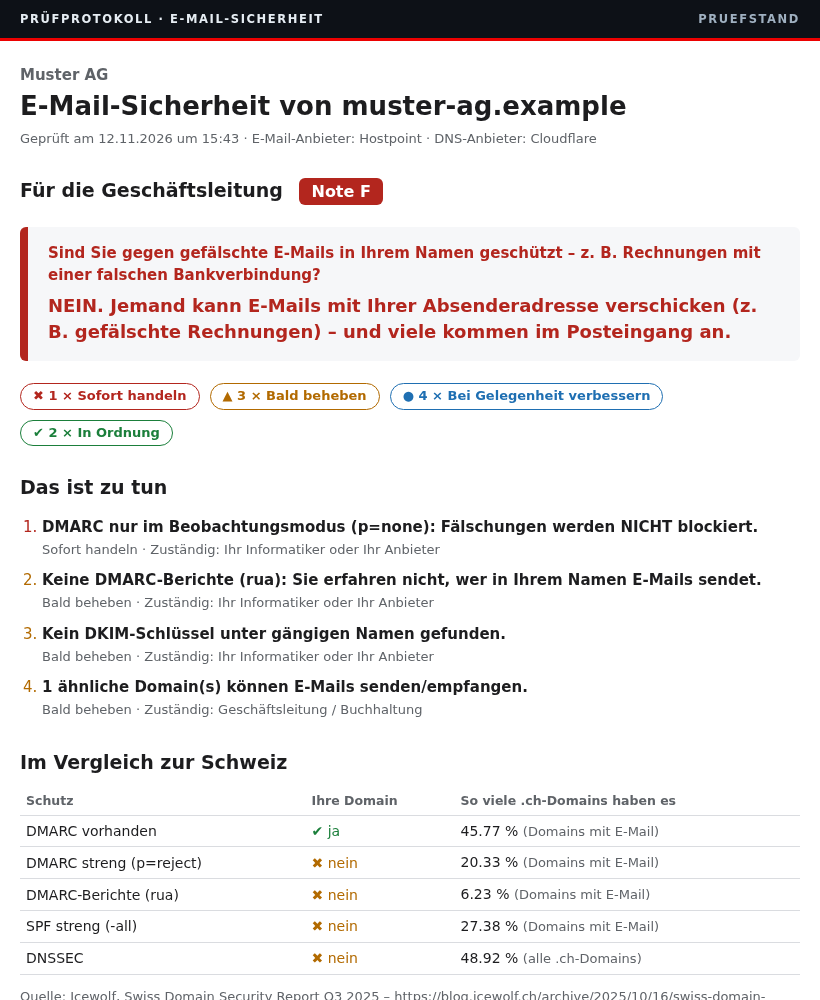
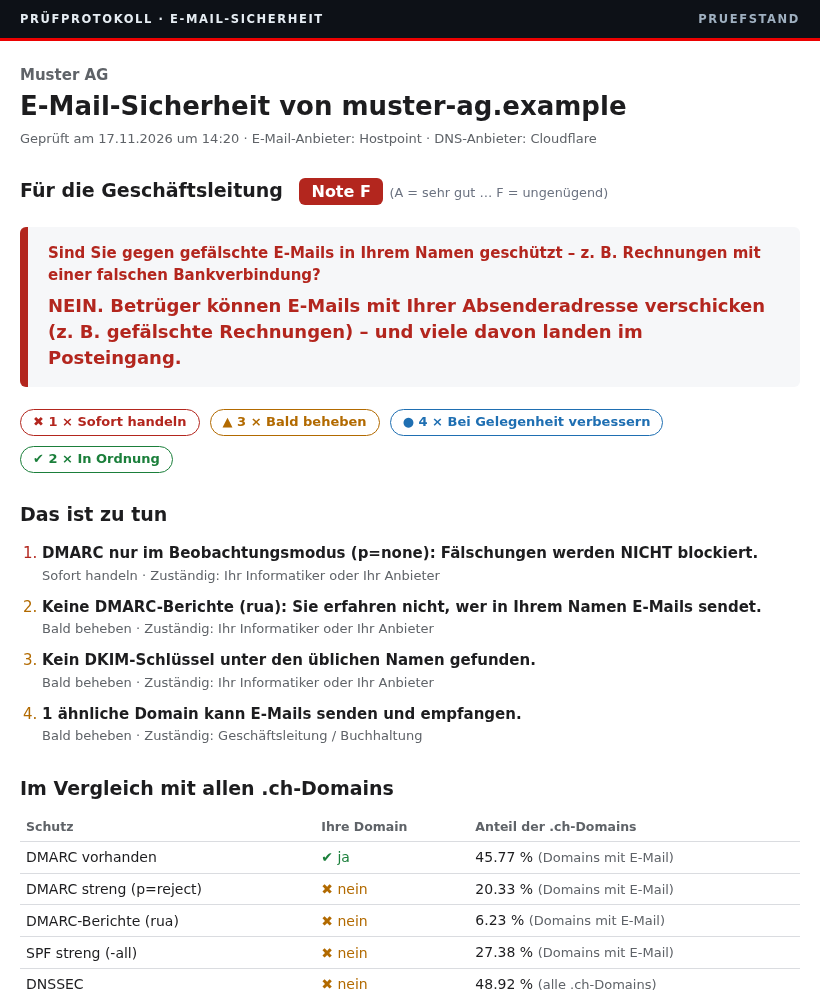
pruefstand 1.6.1: Sprache überarbeitet
- Einzahl/Mehrzahl statt «Domain(s)»: neue Hilfsfunktion sprache.zahl();
  korrigiert u. a. «1 ähnliche Domain(s) können» (Seite 1 des Berichts),
  Subdomains, Sicherheitslücken (KEV/CVE), Cookies, DNSBL, DMARC-Berichte
- Seite 1: «Betrüger können … – und viele davon landen im Posteingang»,
  Legende zur Note (A = sehr gut … F = ungenügend), «Im Vergleich mit
  allen .ch-Domains», Spalte «Anteil der .ch-Domains»
- E-Mail-Prüfung, README, SECURITY, CONTRIBUTING: klarere Formulierungen
- Beispielbericht und Bild von Seite 1 neu erzeugt

diff --git a/beispiel/muster-ag.html b/beispiel/muster-ag.html
@@ -65,15 +65,15 @@ footer { margin-top: 36px; border-top:1px solid var(--linie); padding-top: 10px;
 <div class="band"><span>Prüfprotokoll · E-Mail-Sicherheit</span><span>pruefstand</span></div>
 <div class="kopfzeile"><div><div class="firma">Muster AG</div><h1><span class="domain">E-Mail-Sicherheit</span> von <span class="domain">muster-ag.example</span></h1></div>
 </div>
-<div class="meta">Geprüft am 12.11.2026 um 15:43 · E-Mail-Anbieter:
+<div class="meta">Geprüft am 17.11.2026 um 14:20 · E-Mail-Anbieter:
 Hostpoint · DNS-Anbieter:
 Cloudflare</div>
 
-<h2>Für die Geschäftsleitung <span class="note note-F" title="33/100 Punkte">Note F</span></h2>
+<h2>Für die Geschäftsleitung <span class="note note-F" title="33/100 Punkte">Note F</span> <span style="font-size:.8rem;font-weight:normal;color:#6b7280">(A = sehr gut … F = ungenügend)</span></h2>
 <div class="urteil kritisch">
   <div class="frage">Sind Sie gegen gefälschte E-Mails in Ihrem Namen geschützt – z. B. Rechnungen
   mit einer falschen Bankverbindung?</div>
-  <div class="antwort">NEIN. Jemand kann E-Mails mit Ihrer Absenderadresse verschicken (z. B. gefälschte Rechnungen) – und viele kommen im Posteingang an.</div>
+  <div class="antwort">NEIN. Betrüger können E-Mails mit Ihrer Absenderadresse verschicken (z. B. gefälschte Rechnungen) – und viele davon landen im Posteingang.</div>
 </div>
 <div class="zaehler">
 <span class="kritisch">✖ 1 × Sofort handeln</span>
@@ -84,10 +84,10 @@ Cloudflare</div>
 <h2>Das ist zu tun</h2><ol class='todo'>
 <li class="kritisch"><span class="was">DMARC nur im Beobachtungsmodus (p=none): Fälschungen werden NICHT blockiert.</span><br><span class="meta">Sofort handeln · Zuständig: Ihr Informatiker oder Ihr Anbieter</span></li>
 <li class="warnung"><span class="was">Keine DMARC-Berichte (rua): Sie erfahren nicht, wer in Ihrem Namen E-Mails sendet.</span><br><span class="meta">Bald beheben · Zuständig: Ihr Informatiker oder Ihr Anbieter</span></li>
-<li class="warnung"><span class="was">Kein DKIM-Schlüssel unter gängigen Namen gefunden.</span><br><span class="meta">Bald beheben · Zuständig: Ihr Informatiker oder Ihr Anbieter</span></li>
-<li class="warnung"><span class="was">1 ähnliche Domain(s) können E-Mails senden/empfangen.</span><br><span class="meta">Bald beheben · Zuständig: Geschäftsleitung / Buchhaltung</span></li>
+<li class="warnung"><span class="was">Kein DKIM-Schlüssel unter den üblichen Namen gefunden.</span><br><span class="meta">Bald beheben · Zuständig: Ihr Informatiker oder Ihr Anbieter</span></li>
+<li class="warnung"><span class="was">1 ähnliche Domain kann E-Mails senden und empfangen.</span><br><span class="meta">Bald beheben · Zuständig: Geschäftsleitung / Buchhaltung</span></li>
 </ol>
-<h2>Im Vergleich zur Schweiz</h2><table class='vergleich'><thead><tr><th>Schutz</th><th>Ihre Domain</th><th>So viele .ch-Domains haben es</th></tr></thead><tbody>
+<h2>Im Vergleich mit allen .ch-Domains</h2><table class='vergleich'><thead><tr><th>Schutz</th><th>Ihre Domain</th><th>Anteil der .ch-Domains</th></tr></thead><tbody>
 <tr><td>DMARC vorhanden</td><td><span class="ok">✔ ja</span></td><td>45.77 % <span class='meta'>(Domains mit E-Mail)</span></td></tr>
 <tr><td>DMARC streng (p=reject)</td><td><span class="warnung">✖ nein</span></td><td>20.33 % <span class='meta'>(Domains mit E-Mail)</span></td></tr>
 <tr><td>DMARC-Berichte (rua)</td><td><span class="warnung">✖ nein</span></td><td>6.23 % <span class='meta'>(Domains mit E-Mail)</span></td></tr>
@@ -104,13 +104,13 @@ Betrugsfälle können Sie dem Bundesamt für Cybersicherheit (BACS) melden.</p><
 <div class="seitenumbruch"></div><h2>Technische Details</h2><p class="meta">Für Ihren Informatiker. Jeder Befund hat eine feste ID.</p>
 <div class="befund" style="--farbe:var(--kritisch)"><div class="kopf"><span>DMARC: DMARC nur im Beobachtungsmodus (p=none): Fälschungen werden NICHT blockiert.</span><span class="id">DMARC-P-NONE</span></div><div class="status">✖ Sofort handeln</div><pre>v=DMARC1; p=none</pre><div><strong>Empfehlung:</strong> Berichte (rua) auswerten, prüfen ob alle echten Versanddienste SPF/DKIM bestehen, dann p=quarantine und später p=reject setzen.</div></div>
 <div class="befund" style="--farbe:var(--warnung)"><div class="kopf"><span>DMARC: Keine DMARC-Berichte (rua): Sie erfahren nicht, wer in Ihrem Namen E-Mails sendet.</span><span class="id">DMARC-KEIN-RUA</span></div><div class="status">▲ Bald beheben</div><pre>v=DMARC1; p=none</pre><div><strong>Empfehlung:</strong> rua=mailto:dmarc@muster-ag.example ergänzen (eigene Adresse oder kostenloser DMARC-Auswertungsdienst). So sehen Sie Fälschungsversuche und Fehler.</div><div class="anleitung"><strong>So geht's bei Ihrem Anbieter:</strong> Über Cloudflare: Dashboard → Domain → «Email» &gt; «DMARC Management» → «Enable DMARC Management». Cloudflare ergänzt Ihren DMARC-Eintrag um eine eigene rua-Adresse und wertet die Berichte für Sie aus. Funktioniert nur für die Hauptdomain.<div class="quelle">Quelle: https://developers.cloudflare.com/dmarc-management/enable (geprüft 12.11.2026)</div></div></div>
-<div class="befund" style="--farbe:var(--warnung)"><div class="kopf"><span>DKIM: Kein DKIM-Schlüssel unter gängigen Namen gefunden.</span><span class="id">DKIM-NICHT-GEFUNDEN</span></div><div class="status">▲ Bald beheben</div><pre>Geprüft: 26 Selektoren. DKIM kann trotzdem eingerichtet sein (unbekannter Selektor).</pre><div><strong>Empfehlung:</strong> Eine E-Mail an sich selbst senden und im Header «DKIM-Signature: d=… s=…» nachsehen. Fehlt der Header: DKIM beim E-Mail-Anbieter aktivieren. Selektor bekannt? → pruefstand DOMAIN --dkim-selektor NAME</div><div class="anleitung"><strong>So geht's bei Ihrem Anbieter:</strong> Bei Hostpoint ist das zu erwarten: Der Selektor besteht aus Datum, Schlüsseltyp und Zufallszeichen (z. B. 20240131-rsa1024-9160ac53) und lässt sich nicht erraten. Seit Mai 2024 ist DKIM für Domains in einer Webhosting- oder Cloud-Office-Gruppe automatisch aktiv (drei Schlüssel: rsa1024, rsa2048, ed25519). Sonst im Control Panel unter «Enhanced protection» die Domain wählen und DKIM aktivieren. Prüfen: Header einer gesendeten E-Mail ansehen (DKIM-Signature: s=…), dann pruefstand DOMAIN --dkim-selektor &lt;s-Wert&gt;.<div class="quelle">Quelle: https://support.hostpoint.ch/en/technical/e-mail/e-mail-security/dkim (geprüft 12.11.2026)</div></div></div>
-<div class="befund" style="--farbe:var(--warnung)"><div class="kopf"><span>Ähnliche Domains: 1 ähnliche Domain(s) können E-Mails senden/empfangen.</span><span class="id">AEHNLICH-MIT-MAIL</span></div><div class="status">▲ Bald beheben</div><pre>rnuster-ag.example  (verwechselbares Zeichen)</pre><div><strong>Empfehlung:</strong> Prüfen, ob diese Domains Ihnen oder einer bekannten Firma gehören. Wenn nicht: Buchhaltung warnen (Kontowechsel IMMER per Rückruf bestätigen) und ggf. dem BACS melden. Wichtige Varianten (.ch/.com) selbst registrieren.</div></div>
+<div class="befund" style="--farbe:var(--warnung)"><div class="kopf"><span>DKIM: Kein DKIM-Schlüssel unter den üblichen Namen gefunden.</span><span class="id">DKIM-NICHT-GEFUNDEN</span></div><div class="status">▲ Bald beheben</div><pre>Geprüft: 26 Selektoren. DKIM kann trotzdem eingerichtet sein (unbekannter Selektor).</pre><div><strong>Empfehlung:</strong> Eine E-Mail an sich selbst senden und im Header «DKIM-Signature: d=… s=…» nachsehen. Fehlt der Header: DKIM beim E-Mail-Anbieter aktivieren. Selektor bekannt? → pruefstand DOMAIN --dkim-selektor NAME</div><div class="anleitung"><strong>So geht's bei Ihrem Anbieter:</strong> Bei Hostpoint ist das zu erwarten: Der Selektor besteht aus Datum, Schlüsseltyp und Zufallszeichen (z. B. 20240131-rsa1024-9160ac53) und lässt sich nicht erraten. Seit Mai 2024 ist DKIM für Domains in einer Webhosting- oder Cloud-Office-Gruppe automatisch aktiv (drei Schlüssel: rsa1024, rsa2048, ed25519). Sonst im Control Panel unter «Enhanced protection» die Domain wählen und DKIM aktivieren. Prüfen: Header einer gesendeten E-Mail ansehen (DKIM-Signature: s=…), dann pruefstand DOMAIN --dkim-selektor &lt;s-Wert&gt;.<div class="quelle">Quelle: https://support.hostpoint.ch/en/technical/e-mail/e-mail-security/dkim (geprüft 12.11.2026)</div></div></div>
+<div class="befund" style="--farbe:var(--warnung)"><div class="kopf"><span>Ähnliche Domains: 1 ähnliche Domain kann E-Mails senden und empfangen.</span><span class="id">AEHNLICH-MIT-MAIL</span></div><div class="status">▲ Bald beheben</div><pre>rnuster-ag.example  (verwechselbares Zeichen)</pre><div><strong>Empfehlung:</strong> Prüfen, ob diese Domains Ihnen oder einer bekannten Firma gehören. Wenn ja: als eigene Domain markieren (pruefstand … --eigene-domain DOMAIN), dann wird sie künftig auf Schutz geprüft statt gemeldet. Wenn nicht: Buchhaltung warnen (Kontowechsel IMMER per Rückruf bestätigen) und ggf. dem BACS melden. Wichtige Varianten (.ch/.com) selbst registrieren.</div></div>
 <div class="befund" style="--farbe:var(--hinweis)"><div class="kopf"><span>SPF: SPF vorhanden, aber nur «weich» (~all).</span><span class="id">SPF-SOFTFAIL</span></div><div class="status">● Bei Gelegenheit verbessern</div><pre>v=spf1 include:spf.mail.hostpoint.ch include:_spf.buchhaltung.example ~all
 Fremde Server werden nur markiert, nicht abgelehnt. Mit einem strengen DMARC (quarantine/reject) ist das in Ordnung.</pre><div><strong>Empfehlung:</strong> Wenn alle Ihre Versanddienste im SPF stehen: ~all durch -all ersetzen.</div></div>
 <div class="befund" style="--farbe:var(--hinweis)"><div class="kopf"><span>DNSSEC: DNSSEC nicht aktiviert.</span><span class="id">DNSSEC-AUS</span></div><div class="status">● Bei Gelegenheit verbessern</div><pre>DNS-Antworten könnten unterwegs gefälscht werden (z. B. Umleitung auf falsche Server).</pre><div><strong>Empfehlung:</strong> Beim DNS-Anbieter DNSSEC einschalten (bei Hostpoint, Infomaniak, Cloudflare meist ein Klick).</div></div>
 <div class="befund" style="--farbe:var(--hinweis)"><div class="kopf"><span>CAA: Kein CAA-Eintrag: Jede Zertifizierungsstelle darf Zertifikate für Sie ausstellen.</span><span class="id">CAA-FEHLT</span></div><div class="status">● Bei Gelegenheit verbessern</div><pre>Geringes Risiko, aber einfach zu verbessern.</pre><div><strong>Empfehlung:</strong> CAA-Eintrag mit Ihrer Zertifizierungsstelle anlegen, z. B. «muster-ag.example. CAA 0 issue &quot;letsencrypt.org&quot;».</div></div>
-<div class="befund" style="--farbe:var(--hinweis)"><div class="kopf"><span>Ähnliche Domains: 1 ähnliche Domain(s) registriert, derzeit ohne E-Mail.</span><span class="id">AEHNLICH-OHNE-MAIL</span></div><div class="status">● Bei Gelegenheit verbessern</div><pre>muster-ag-rechnung.example  (Zusatz)</pre><div><strong>Empfehlung:</strong> Beobachten: E-Mail kann jederzeit eingerichtet werden. Bei erneuter Prüfung zeigt pruefstand, ob sich etwas geändert hat.</div></div>
+<div class="befund" style="--farbe:var(--hinweis)"><div class="kopf"><span>Ähnliche Domains: 1 ähnliche Domain ist registriert, derzeit ohne E-Mail.</span><span class="id">AEHNLICH-OHNE-MAIL</span></div><div class="status">● Bei Gelegenheit verbessern</div><pre>muster-ag-rechnung.example  (Zusatz)</pre><div><strong>Empfehlung:</strong> Beobachten: E-Mail kann jederzeit eingerichtet werden. Bei erneuter Prüfung zeigt pruefstand, ob sich etwas geändert hat.</div></div>
 <div class="befund" style="--farbe:var(--ok)"><div class="kopf"><span>MX: E-Mails werden angenommen von: Hostpoint</span><span class="id">MX-OK</span></div><div class="status">✔ In Ordnung</div><pre>Mailserver: mx1.mail.hostpoint.ch, mx2.mail.hostpoint.ch</pre></div>
 <div class="befund" style="--farbe:var(--ok)"><div class="kopf"><span>Subdomains: Keine verwaisten Subdomains gefunden (47 Namen geprüft).</span><span class="id">SUB-OK</span></div><div class="status">✔ In Ordnung</div></div>
 <div class="befund" style="--farbe:var(--info)"><div class="kopf"><span>NS: DNS wird verwaltet bei: Cloudflare – dort werden die Korrekturen gemacht.</span><span class="id">NS-ANBIETER</span></div><div class="status">ℹ Info</div><pre>Nameserver: anna.ns.cloudflare.com, bob.ns.cloudflare.com</pre></div>
@@ -141,7 +141,7 @@ Fremde Server werden nur markiert, nicht abgelehnt. Mit einem strengen DMARC (qu
 <div><strong>Wichtig</strong></div>
 <div class="meta">→ ALLE Zertifizierungsstellen aufnehmen, die Sie oder Ihr Hoster nutzen – sonst kann die automatische Zertifikatserneuerung scheitern. Cloudflare ergänzt bei Universal SSL seine eigenen CAA-Einträge automatisch (laut Cloudflare-Doku).</div>
 </div>
-<footer>Erstellt mit pruefstand 1.3.0 – passiver Check: Es wurden nur öffentliche
+<footer>Erstellt mit pruefstand 1.6.1 – passiver Check: Es wurden nur öffentliche
 DNS-Daten abgefragt und die Webseite normal aufgerufen – ohne Zugriff auf Ihre Systeme. Der Bericht zeigt den Stand vom
-12.11.2026 und ersetzt keine vollständige Sicherheitsprüfung.</footer>
+17.11.2026 und ersetzt keine vollständige Sicherheitsprüfung.</footer>
 </main></body></html>

diff --git a/src/pruefstand/pruefungen/aehnliche.py b/src/pruefstand/pruefungen/aehnliche.py
@@ -26,6 +26,7 @@ from dataclasses import dataclass
 import json
 from datetime import datetime, timedelta, timezone
 
+from pruefstand.sprache import zahl
 from pruefstand.dnsabfrage import Dns, DnsFehler
 from pruefstand.modell import Befund, Status
 from pruefstand.netz import Netz, NetzFehler
@@ -303,14 +304,15 @@ def _eigene_befunde(dns: Dns, eigene: dict[str, str]) -> tuple[list[Befund], lis
     if weg:
         befunde.append(Befund(
             "AEHNLICH-EIGENE-ABGELAUFEN", "Ähnliche Domains", Status.WARNUNG,
-            f"{len(weg)} Ihrer eigenen Domain(s) existiert/existieren nicht mehr – jemand anderes "
-            "könnte sie registrieren.", "\n".join(zeile(i) for i in weg),
+            (f"{len(weg)} Ihrer eigenen Domains gibt es nicht mehr" if len(weg) > 1 else
+             "Eine Ihrer eigenen Domains gibt es nicht mehr") + " – jemand anderes könnte sie registrieren.", "\n".join(zeile(i) for i in weg),
             "Beim Registrar prüfen, ob die Domain abgelaufen ist, und sie wieder registrieren. "
             "Sonst kann ein Betrüger genau diese Variante für gefälschte E-Mails nutzen.", daten))
     if offen:
         befunde.append(Befund(
             "AEHNLICH-EIGENE-UNGESCHUETZT", "Ähnliche Domains", Status.WARNUNG,
-            f"{len(offen)} Ihrer eigenen ähnlichen Domain(s) ist/sind nicht gegen Fälschung geschützt.",
+            (f"{len(offen)} Ihrer eigenen ähnlichen Domains sind" if len(offen) > 1 else
+             "Eine Ihrer eigenen ähnlichen Domains ist") + " nicht gegen Fälschung geschützt.",
             "\n".join(zeile(i) for i in offen),
             "Auch Domains, die Sie nur zum Schutz besitzen, absichern – sonst können Betrüger mit "
             "ihnen E-Mails in Ihrem Namen verschicken. Ohne E-Mail: SPF «v=spf1 -all», DMARC "
@@ -319,7 +321,8 @@ def _eigene_befunde(dns: Dns, eigene: dict[str, str]) -> tuple[list[Befund], lis
     if gut:
         befunde.append(Befund(
             "AEHNLICH-EIGENE", "Ähnliche Domains", Status.OK,
-            f"{len(gut)} eigene ähnliche Domain(s) bestätigt und gegen Fälschung geschützt.",
+            f"{zahl(len(gut), 'eigene ähnliche Domain', 'eigene ähnliche Domains')} bestätigt und gegen "
+            "Fälschung geschützt.",
             "\n".join(zeile(i) for i in gut), daten=daten))
     return befunde, infos
 
@@ -345,8 +348,8 @@ def pruefe(dns: Dns, domain: str, netz: Netz | None = None, jetzt: datetime | No
     if neu_mit_mail:
         befunde.append(Befund(
             "AEHNLICH-NEU-REGISTRIERT", "Ähnliche Domains", Status.KRITISCH,
-            f"{len(neu_mit_mail)} ähnliche Domain(s) mit E-Mail wurden in den letzten {NEU_TAGE} Tagen "
-            "registriert – typisches Zeichen für einen vorbereiteten Betrug.",
+            f"{zahl(len(neu_mit_mail), 'ähnliche Domain mit E-Mail wurde', 'ähnliche Domains mit E-Mail wurden')} "
+            f"in den letzten {NEU_TAGE} Tagen registriert – ein typisches Zeichen für einen vorbereiteten Betrug.",
             "\n".join(t.zeile() for t in neu_mit_mail),
             "Sofort: Buchhaltung und wichtige Kunden warnen (keine Kontowechsel per E-Mail), "
             "Fall dem BACS melden (www.ncsc.admin.ch). Prüfen, wem die Domain gehört.",
@@ -355,7 +358,7 @@ def pruefe(dns: Dns, domain: str, netz: Netz | None = None, jetzt: datetime | No
     if mit_mail:
         befunde.append(Befund(
             "AEHNLICH-MIT-MAIL", "Ähnliche Domains", Status.WARNUNG,
-            f"{len(mit_mail)} ähnliche Domain(s) können E-Mails senden/empfangen.",
+            f"{zahl(len(mit_mail), 'ähnliche Domain kann', 'ähnliche Domains können')} E-Mails senden und empfangen.",
             "\n".join(t.zeile() for t in mit_mail),
             "Prüfen, ob diese Domains Ihnen oder einer bekannten Firma gehören. Wenn ja: als eigene "
             "Domain markieren (pruefstand … --eigene-domain DOMAIN), dann wird sie künftig auf Schutz "
@@ -366,7 +369,7 @@ def pruefe(dns: Dns, domain: str, netz: Netz | None = None, jetzt: datetime | No
     if ohne_mail:
         befunde.append(Befund(
             "AEHNLICH-OHNE-MAIL", "Ähnliche Domains", Status.HINWEIS,
-            f"{len(ohne_mail)} ähnliche Domain(s) registriert, derzeit ohne E-Mail.",
+            f"{zahl(len(ohne_mail), 'ähnliche Domain ist', 'ähnliche Domains sind')} registriert, derzeit ohne E-Mail.",
             "\n".join(t.zeile() for t in ohne_mail),
             "Beobachten: E-Mail kann jederzeit eingerichtet werden. Bei erneuter Prüfung "
             "zeigt pruefstand, ob sich etwas geändert hat.", daten,

diff --git a/src/pruefstand/mailpruefung.py b/src/pruefstand/mailpruefung.py
@@ -315,7 +315,7 @@ def _phishing_signale(msg: EmailMessage, name: str, von: str, von_domain: str, a
         lokal = adr.split("@", 1)[0]
         if len(lokal) >= 3 and lokal not in ROLLEN and n in (lokal, adr) and von.lower() != adr:
             signale.append(("NAME-IST-EMPFAENGER", f"Als Absendername steht Ihr eigenes Postfach «{name}» – "
-                            f"die E-Mail kommt aber von {von}. Trick, damit sie vertraut aussieht."))
+                            f"die E-Mail kommt aber von {von}. Ein Trick, damit sie vertraut wirkt."))
             break
     # stark: Kopfzeilen, die nur Mailserver setzen, stehen UNTER dem From → vom Absender selbst erfunden
     namen = [k.lower() for k in msg.keys()]
@@ -326,7 +326,7 @@ def _phishing_signale(msg: EmailMessage, name: str, von: str, von_domain: str, a
             if any("trusted sender" in str(v).lower() for v in msg.get_all("X-Google-Sender-Delegation", []) or []):
                 detail.append("«Trusted Sender» (erfunden – Gmail kennt keine solche Bestätigung)")
             signale.append(("KOPF-UNTER-FROM", "Die E-Mail enthält gefälschte Server-Kopfzeilen "
-                            f"({', '.join(detail)}). Echte Server schreiben diese immer OBEN dazu."))
+                            f"({', '.join(detail)}). Echte Mailserver fügen diese immer OBEN ein."))
     # schwach: SPF/DKIM bestanden – aber nur für eine fremde Domain
     dom = _auth_domains(msg)
     if ar.get("dmarc") != "pass" and von_domain:
@@ -344,12 +344,12 @@ def _phishing_signale(msg: EmailMessage, name: str, von: str, von_domain: str, a
                     - GUELTIGE_KODIERUNG - {""})
     if falsch:
         signale.append(("KODIERUNG-UNGUELTIG", f"Die E-Mail ist absichtlich fehlerhaft aufgebaut "
-                        f"(Kodierung «{falsch[0][:20]}» gibt es nicht) – Trick gegen Spamfilter."))
+                        f"(Kodierung «{falsch[0][:20]}» gibt es nicht) – ein Trick gegen Spamfilter."))
     # schwach: Zahlungs-Phrasen («Zahlungsmethode abgelaufen» …)
     zahlung = [p for p in ZAHLUNG_PHRASEN if p in text]
     if zahlung:
         signale.append(("ZAHLUNG-AKTUALISIEREN", f"Sie sollen Ihre Zahlungsdaten aktualisieren "
-                        f"(«{zahlung[0]}») – klassischer Köder für Kreditkarten-Diebstahl."))
+                        f"(«{zahlung[0]}») – ein klassischer Köder für Kreditkartenbetrug."))
     return signale
 
 
@@ -578,8 +578,8 @@ def pruefe_mail(roh: bytes, datei: str = "", eigene_domains: list[str] | None = 
         b(Befund("MAIL-PHISHING-MUSTER", "Betrugsmuster", Status.WARNUNG,
                  f"Typisches Phishing-Muster: {len(p_signale)} Signale gleichzeitig.",
                  "\n".join(f"– {e}" for _, e in p_signale),
-                 "Nichts anklicken, keine Zahlungs- oder Anmeldedaten eingeben, auch nicht «Abmelden» "
-                 "klicken (bestätigt nur, dass Ihre Adresse aktiv ist). Als Phishing melden und löschen.",
+                 "Nichts anklicken, keine Zahlungs- oder Anmeldedaten eingeben, auch nicht auf «Abmelden» "
+                 "klicken (das bestätigt nur, dass Ihre Adresse aktiv ist). Als Phishing melden und löschen.",
                  daten={"signale": [k for k, _ in p_signale]}))
     else:                       # kein Gesamtmuster: starke Signale einzeln zeigen
         for kuerzel, erklaerung in p_signale:

diff --git a/src/pruefstand/dmarc_berichte.py b/src/pruefstand/dmarc_berichte.py
@@ -21,6 +21,7 @@ from pathlib import Path
 
 from defusedxml import ElementTree as ET
 
+from pruefstand.sprache import zahl
 from pruefstand.modell import Befund, Status
 
 MAX_ENTPACKT = 20 * 1024 * 1024
@@ -193,8 +194,9 @@ def bewerte(aus: Auswertung) -> list[Befund]:
     gesamt, ok = aus.gesamt, aus.bestanden
     befunde.append(Befund(
         "RUA-UEBERSICHT", "DMARC-Berichte", Status.INFO,
-        f"{gesamt} E-Mails von {len(aus.quellen)} Servern; {ok} ({ok / gesamt:.0%}) bestehen DMARC.",
-        f"Domain(s): {', '.join(sorted(aus.domains))} · Richtlinie: {', '.join(sorted(aus.policy))} · "
+        f"{zahl(gesamt, 'E-Mail', 'E-Mails')} von {zahl(len(aus.quellen), 'Server', 'Servern')}; "
+        f"{ok} ({ok / gesamt:.0%}) " + ("besteht" if ok == 1 else "bestehen") + " DMARC.",
+        f"{'Domain' if len(aus.domains) == 1 else 'Domains'}: {', '.join(sorted(aus.domains))} · Richtlinie: {', '.join(sorted(aus.policy))} · "
         f"Zeitraum: {aus.von:%d.%m.%Y} – {aus.bis:%d.%m.%Y}" if aus.von and aus.bis else "",
     ))
     bekannte_fehler = [q for q in aus.quellen.values() if q.bestanden < q.anzahl and q.name]
@@ -202,8 +204,8 @@ def bewerte(aus: Auswertung) -> list[Befund]:
     if bekannte_fehler:
         befunde.append(Befund(
             "RUA-ECHTE-DIENSTE-SCHEITERN", "DMARC-Berichte", Status.WARNUNG,
-            f"{len(bekannte_fehler)} bekannte(r) Versanddienst(e) bestehen DMARC nicht immer – "
-            "das sind wahrscheinlich IHRE eigenen E-Mails.",
+            f"{zahl(len(bekannte_fehler), 'bekannter Versanddienst besteht', 'bekannte Versanddienste bestehen')} "
+            "DMARC nicht immer – das sind wahrscheinlich IHRE eigenen E-Mails.",
             "\n".join(f"{q.name} ({q.ip}, {q.ptr}): {q.anzahl - q.bestanden} von {q.anzahl} gescheitert"
                       for q in sorted(bekannte_fehler, key=lambda x: -x.anzahl)),
             "Bei diesen Diensten DKIM mit Ihrer Domain einrichten (oder sie in den SPF aufnehmen). "
@@ -250,6 +252,6 @@ def bewerte(aus: Auswertung) -> list[Befund]:
         ))
     if aus.fehler:
         befunde.append(Befund("RUA-DATEIFEHLER", "DMARC-Berichte", Status.INFO,
-                              f"{len(aus.fehler)} Datei(en) konnten nicht gelesen werden.",
+                              f"{zahl(len(aus.fehler), 'Datei konnte', 'Dateien konnten')} nicht gelesen werden.",
                               "\n".join(aus.fehler[:10])))
     return befunde

diff --git a/src/pruefstand/pruefungen/subdomains.py b/src/pruefstand/pruefungen/subdomains.py
@@ -19,6 +19,7 @@ import json
 import secrets
 from concurrent.futures import ThreadPoolExecutor
 
+from pruefstand.sprache import zahl
 from pruefstand.dnsabfrage import Dns, DnsFehler
 from pruefstand.modell import Befund, Status
 from pruefstand.netz import Netz, NetzFehler
@@ -142,8 +143,8 @@ def pruefe(dns: Dns, domain: str, netz: Netz | None = None, online_netz: Netz | 
     if kritisch:
         befunde.append(Befund(
             "SUB-UEBERNEHMBAR", "Subdomains", Status.KRITISCH,
-            f"{len(kritisch)} Subdomain(s) zeigen auf einen gekündigten Dienst – ein Angreifer "
-            "könnte sie übernehmen.",
+            f"{zahl(len(kritisch), 'Subdomain zeigt', 'Subdomains zeigen')} auf einen gekündigten Dienst – "
+            "ein Angreifer könnte sie übernehmen.",
             "\n".join(f"{c['name']} → {c['ziel']} ({c['dienst']}, Ziel existiert nicht)" for c in kritisch),
             "DNS-Eintrag sofort löschen (oder den Dienst wieder einrichten). Sonst kann jemand unter "
             "Ihrer Domain eine Phishing-Seite betreiben.",
@@ -152,7 +153,7 @@ def pruefe(dns: Dns, domain: str, netz: Netz | None = None, online_netz: Netz | 
     if verwaist:
         befunde.append(Befund(
             "SUB-VERWAIST", "Subdomains", Status.WARNUNG,
-            f"{len(verwaist)} Subdomain(s) zeigen auf ein Ziel, das nicht mehr existiert.",
+            f"{zahl(len(verwaist), 'Subdomain zeigt', 'Subdomains zeigen')} auf ein Ziel, das es nicht mehr gibt.",
             "\n".join(f"{c['name']} → {c['ziel']}" for c in verwaist),
             "Nicht mehr benötigte DNS-Einträge löschen.", {"eintraege": verwaist},
         ))
@@ -173,8 +174,8 @@ def pruefe(dns: Dns, domain: str, netz: Netz | None = None, online_netz: Netz | 
     if verdacht:
         befunde.append(Befund(
             "SUB-DIENST-FREI", "Subdomains", Status.WARNUNG,
-            f"{len(verdacht)} Subdomain(s) zeigen die typische Meldung «diese Seite gibt es nicht» "
-            "des Dienstes – möglicherweise übernehmbar.",
+            f"{zahl(len(verdacht), 'Subdomain zeigt', 'Subdomains zeigen')} die typische Meldung «diese "
+            "Seite gibt es nicht» des Dienstes – möglicherweise übernehmbar.",
             "\n".join(f"{c['name']} → {c['ziel']} ({c['dienst']})" for c in verdacht),
             "Manuell prüfen. Wenn der Dienst nicht mehr genutzt wird: DNS-Eintrag löschen.",
             {"eintraege": verdacht},

diff --git a/src/pruefstand/pruefungen/shodan.py b/src/pruefstand/pruefungen/shodan.py
@@ -27,6 +27,7 @@ import os
 import time
 from pathlib import Path
 
+from pruefstand.sprache import zahl
 from pruefstand.dnsabfrage import Dns, DnsFehler
 from pruefstand.modell import Befund, Status
 from pruefstand.netz import Netz, NetzFehler
@@ -191,11 +192,13 @@ def pruefe(dns: Dns, domain: str, netz: Netz, kev_datei: Path | None = None) -> 
             "Sofort vom Internet trennen und nur über VPN oder ein getrenntes Netz erreichbar machen.")
     if kev_rw:
         neu("SHODAN-KEV-RANSOMWARE", Status.KRITISCH,
-            f"{len(kev_rw)} Sicherheitslücke(n), die von Ransomware-Gruppen ausgenutzt werden (CISA KEV).",
+            f"{zahl(len(kev_rw), 'Sicherheitslücke, die', 'Sicherheitslücken, die')} von Ransomware-Gruppen "
+            "ausgenutzt " + ("wird" if len(kev_rw) == 1 else "werden") + " (CISA KEV).",
             kev_rw, "Sofort aktualisieren (Hersteller-Update). Danach prüfen, ob schon jemand eingedrungen ist.")
     if kev_sonst:
         neu("SHODAN-KEV", Status.WARNUNG,
-            f"{len(kev_sonst)} Sicherheitslücke(n), die nachweislich angegriffen werden (CISA KEV).",
+            f"{zahl(len(kev_sonst), 'Sicherheitslücke, die', 'Sicherheitslücken, die')} nachweislich angegriffen "
+            + ("wird" if len(kev_sonst) == 1 else "werden") + " (CISA KEV).",
             kev_sonst, "Zeitnah aktualisieren (Hersteller-Update) und bestätigen, dass die Version betroffen ist.")
     if gruppen["unsicher"]:
         neu("SHODAN-UNSICHER", Status.WARNUNG,
@@ -204,7 +207,8 @@ def pruefe(dns: Dns, domain: str, netz: Netz, kev_datei: Path | None = None) -> 
     if cve_sonst:
         zusatz = "" if kev is not None else " (KEV-Liste nicht abrufbar – Dringlichkeit unbekannt)"
         neu("SHODAN-CVE", Status.HINWEIS,
-            f"{len(cve_sonst)} bekannte Sicherheitslücke(n) laut Versionsangabe{zusatz}.", cve_sonst,
+            f"{zahl(len(cve_sonst), 'bekannte Sicherheitslücke', 'bekannte Sicherheitslücken')} laut "
+            f"Versionsangabe{zusatz}.", cve_sonst,
             "Software aktuell halten. Mit dem Hersteller/Informatiker prüfen, ob die Version betroffen ist.")
     if not befunde:
         zeilen = [f"{ip} ({ips[ip]}): Ports {', '.join(map(str, d.get('ports', []))) or '–'}"

diff --git a/src/pruefstand/bericht_html.py b/src/pruefstand/bericht_html.py
@@ -157,7 +157,7 @@ def erzeuge(erg: Ergebnis, firma: str | None = None, absender: Absender | None =
 {escape(', '.join(erg.anbieter) or 'unbekannt')} · DNS-Anbieter:
 {escape(', '.join(erg.dns_anbieter) or 'unbekannt')}</div>
 
-<h2>Für die Geschäftsleitung <span class="note note-{erg.note}" title="{erg.punkte}/100 Punkte">Note {erg.note}</span></h2>
+<h2>Für die Geschäftsleitung <span class="note note-{erg.note}" title="{erg.punkte}/100 Punkte">Note {erg.note}</span> <span style="font-size:.8rem;font-weight:normal;color:#6b7280">(A = sehr gut … F = ungenügend)</span></h2>
 <div class="urteil {FARBE[status]}">
   <div class="frage">Sind Sie gegen gefälschte E-Mails in Ihrem Namen geschützt – z. B. Rechnungen
   mit einer falschen Bankverbindung?</div>
@@ -183,8 +183,8 @@ def erzeuge(erg: Ergebnis, firma: str | None = None, absender: Absender | None =
 
     zeilen = vergleich_ch.vergleiche(erg)
     if zeilen:
-        h.append("<h2>Im Vergleich zur Schweiz</h2><table class='vergleich'><thead><tr><th>Schutz</th>"
-                 "<th>Ihre Domain</th><th>So viele .ch-Domains haben es</th></tr></thead><tbody>")
+        h.append("<h2>Im Vergleich mit allen .ch-Domains</h2><table class='vergleich'><thead><tr><th>Schutz</th>"
+                 "<th>Ihre Domain</th><th>Anteil der .ch-Domains</th></tr></thead><tbody>")
         for z in zeilen:
             sie = '<span class="ok">✔ ja</span>' if z.sie else '<span class="warnung">✖ nein</span>'
             h.append(f"<tr><td>{escape(z.kennzahl.name)}</td><td>{sie}</td>"

diff --git a/src/pruefstand/pruefung.py b/src/pruefstand/pruefung.py
@@ -79,11 +79,11 @@ class Ergebnis:
                                     "geprüft werden. Bitte später erneut prüfen.")
         if self.hat("DMARC-FEHLT") or self.hat("DMARC-P-NONE") or self.hat("DMARC-UNGUELTIG") \
                 or self.hat("DMARC-MEHRFACH"):
-            return Status.KRITISCH, ("NEIN. Jemand kann E-Mails mit Ihrer Absenderadresse verschicken "
-                                     "(z. B. gefälschte Rechnungen) – und viele kommen im Posteingang an.")
+            return Status.KRITISCH, ("NEIN. Betrüger können E-Mails mit Ihrer Absenderadresse verschicken "
+                                     "(z. B. gefälschte Rechnungen) – und viele davon landen im Posteingang.")
         if self.hat("SPF-ALL-OFFEN") or self.hat("SPF-FEHLT") or self.hat("SPF-ZU-VIELE-LOOKUPS"):
             return Status.WARNUNG, ("TEILWEISE. DMARC ist aktiv, aber SPF ist lückenhaft. "
-                                    "Echte E-Mails können ausserdem im Spam landen.")
+                                    "Ausserdem können Ihre echten E-Mails im Spam landen.")
         if self.hat("DMARC-PCT") or self.hat("DMARC-SP-NONE"):
             return Status.WARNUNG, "TEILWEISE. DMARC schützt nicht alle E-Mails oder Subdomains."
         if self.hat("DMARC-QUARANTINE"):

diff --git a/src/pruefstand/pruefungen/web.py b/src/pruefstand/pruefungen/web.py
@@ -8,6 +8,7 @@ from __future__ import annotations
 import re
 from datetime import datetime, timezone
 
+from pruefstand.sprache import zahl
 from pruefstand.dnsabfrage import Dns
 from pruefstand.modell import Befund, Status
 from pruefstand.netz import Netz, NetzFehler
@@ -136,7 +137,7 @@ def pruefe(dns: Dns, domain: str, netz: Netz, jetzt: datetime | None = None) -> 
             schwach.append(f"{name}: ohne {', '.join(fehlt)}")
     if schwach:
         befunde.append(Befund("WEB-COOKIES-UNSICHER", "Web", Status.HINWEIS,
-                              f"{len(schwach)} Cookie(s) ohne empfohlene Schutz-Attribute.",
+                              f"{zahl(len(schwach), 'Cookie', 'Cookies')} ohne empfohlene Schutzattribute.",
                               "\n".join(schwach[:10]),
                               "Cookies mit Secure, HttpOnly und SameSite setzen (CMS/Webserver). "
                               "Besonders wichtig für Anmelde-Cookies."))

diff --git a/src/pruefstand/bericht.py b/src/pruefstand/bericht.py
@@ -10,6 +10,7 @@ from rich.panel import Panel
 from rich.table import Table
 from rich.text import Text
 
+from pruefstand.sprache import zahl
 from pruefstand import __version__
 from pruefstand.modell import Status
 from pruefstand.pruefung import Ergebnis
@@ -149,7 +150,7 @@ def mail_json(erg) -> str:
 
 def rua_terminal(aus, befunde, console: Console | None = None) -> None:
     c = console or Console()
-    c.print(Panel(Text(f"{aus.dateien} Bericht(e) · {aus.gesamt} E-Mails · "
+    c.print(Panel(Text(f"{zahl(aus.dateien, 'Bericht', 'Berichte')} · {zahl(aus.gesamt, 'E-Mail', 'E-Mails')} · "
                        f"{len(aus.quellen)} Server", style="bold"),
                   title=f"pruefstand {__version__} – DMARC-Berichte", border_style="cyan"))
     t = Table(show_header=True, header_style="bold", expand=True)

diff --git a/src/pruefstand/pruefungen/dnsbl.py b/src/pruefstand/pruefungen/dnsbl.py
@@ -19,6 +19,7 @@ from __future__ import annotations
 
 import ipaddress
 
+from pruefstand.sprache import zahl
 from pruefstand.dnsabfrage import Dns, DnsFehler
 from pruefstand.modell import Befund, Status
 from pruefstand.pruefungen import spf
@@ -95,7 +96,7 @@ def pruefe(dns: Dns, domain: str) -> list[Befund]:
     elif len(nicht_pruefbar) < len(LISTEN):
         befunde.append(Befund(
             "DNSBL-OK", "Sperrlisten", Status.OK,
-            f"Keine Spam-Sperrliste gefunden ({len(ips)} IP-Adresse(n) geprüft).", daten=daten,
+            f"Auf keiner Spam-Sperrliste ({zahl(len(ips), 'IP-Adresse', 'IP-Adressen')} geprüft).", daten=daten,
         ))
     if nicht_pruefbar:
         befunde.append(Befund(

diff --git a/src/pruefstand/pruefungen/dkim.py b/src/pruefstand/pruefungen/dkim.py
@@ -85,7 +85,7 @@ def pruefe(dns: Dns, domain: str, extra_selektoren: list[str] | None = None) -> 
     if not gefunden:
         return [Befund(
             "DKIM-NICHT-GEFUNDEN", "DKIM", Status.WARNUNG,
-            "Kein DKIM-Schlüssel unter gängigen Namen gefunden.",
+            "Kein DKIM-Schlüssel unter den üblichen Namen gefunden.",
             f"Geprüft: {len(selektoren)} Selektoren. DKIM kann trotzdem eingerichtet sein "
             "(unbekannter Selektor).",
             "Eine E-Mail an sich selbst senden und im Header «DKIM-Signature: d=… s=…» "
